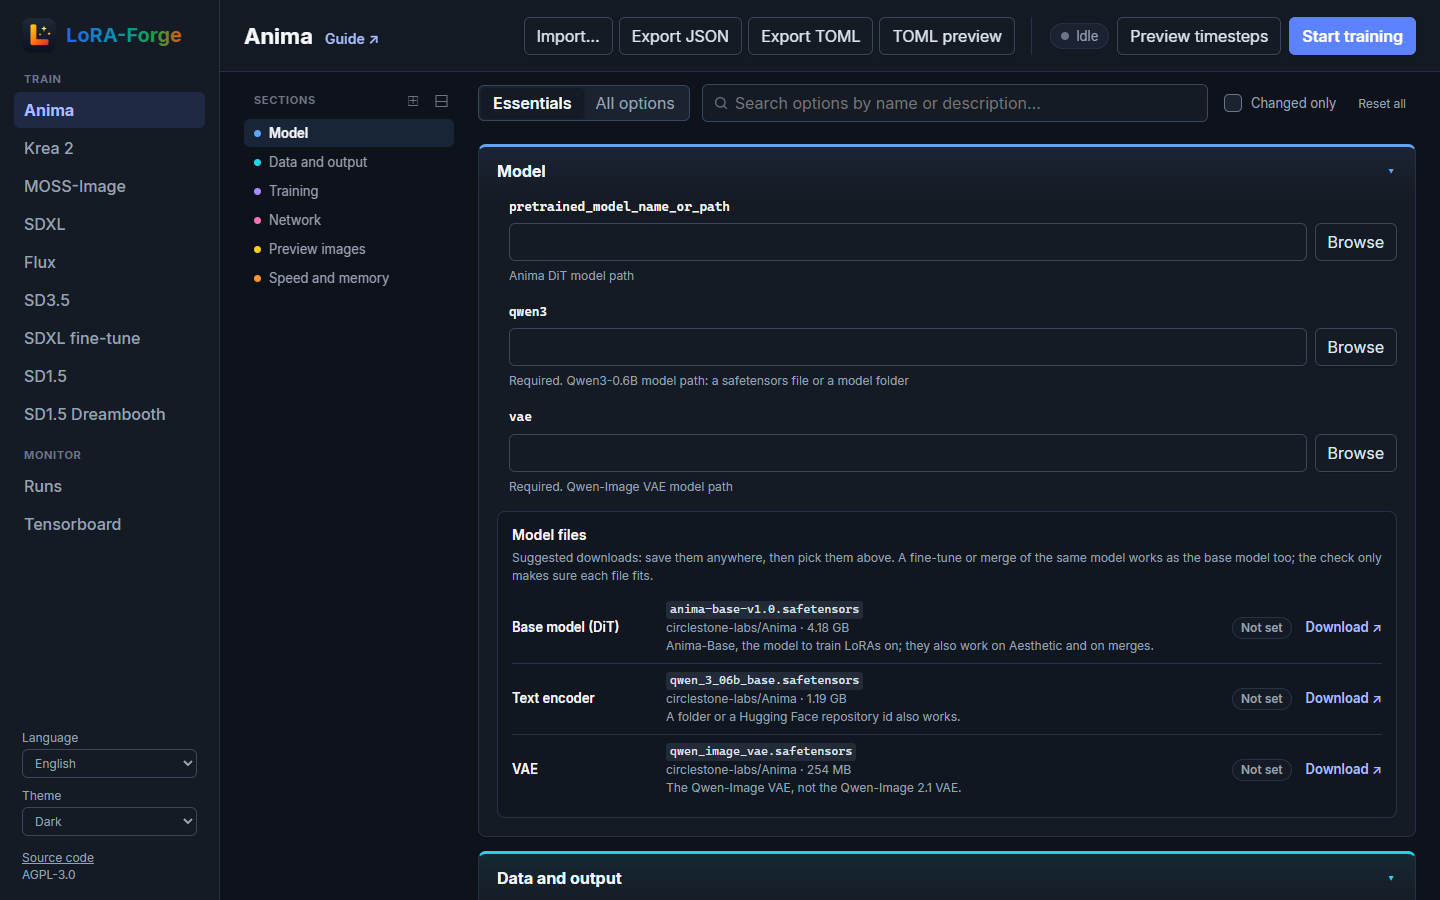
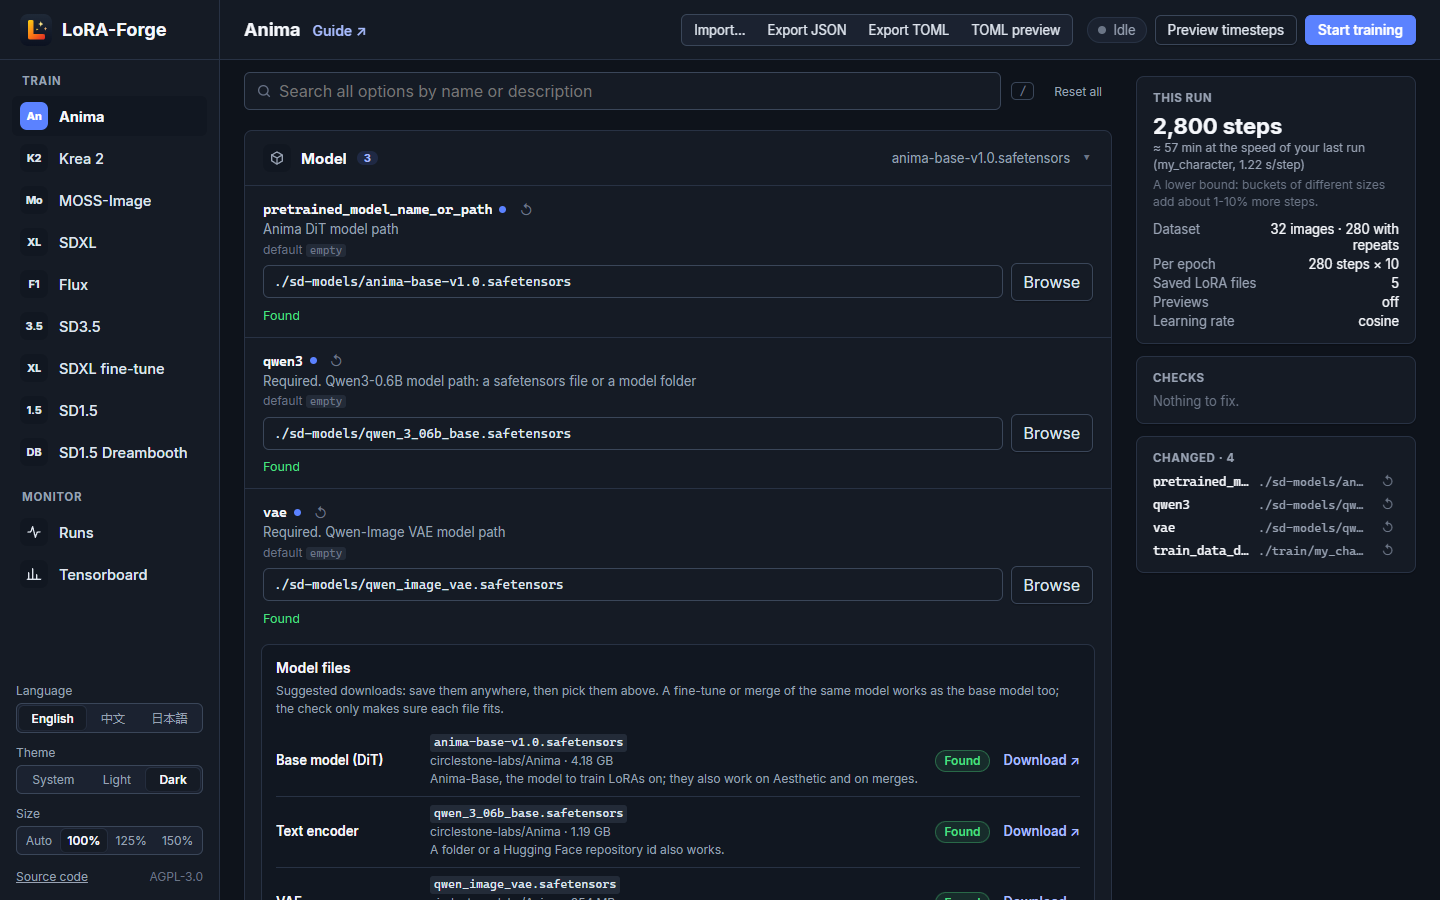
Release 1.5.0
New README screenshots and text for the redesigned trainer pages, and the version bump.

diff --git a/README.md b/README.md
@@ -43,7 +43,7 @@ LoRA Forge is a web UI for training LoRAs. You pick a model, fill in a form in t
 </picture>
 
 - **Models**: Anima, Krea 2, MOSS-Image, SDXL (Illustrious, NoobAI, Pony, ...), FLUX, SD3.5 and SD1.5, plus full fine-tuning for SDXL and SD1.5 (Dreambooth). Each model has its own page with sensible defaults.
-- **Easy forms**: an *Essentials* view with the options most people change, all options one click away, search, and import / export of configs as JSON or TOML. Anima, Krea 2 and MOSS-Image list the files they need, with download links, and check the files you pick.
+- **Easy forms**: the options most people change first and the rest one click away, sub-options that appear when they apply, live hints (steps, warmup, file checks), problems shown before you start, search, and import / export of configs as JSON or TOML. Anima, Krea 2 and MOSS-Image list the files they need, with download links, and check the files you pick.
 - **Runs page**: progress and time left, loss and learning rate charts, sample images, the saved LoRA files and the console output, also for past runs. No TensorBoard needed.
 - **Faster training**: an SDXL LoRA trains about twice as fast as with plain sd-scripts, and Anima, Krea 2 and MOSS-Image are faster too. Most of it is on by default ([details](#speed)).
 - **Krea 2 on 16 GB cards**: int8 base weights and block swap by default ([details](docs/krea2.md)).
@@ -105,11 +105,11 @@ Images directly in the dataset folder are not used; the GUI tells you when no `<
 
 **2. Get the base model.** Download the model you want to train on. Anima, Krea 2 and MOSS-Image also need a text encoder and a VAE: their pages have a **Model files** panel with a download link for each file. For SDXL, FLUX, SD3.5 and SD1.5, use any checkpoint of that model you like.
 
-**3. Fill in the form.** Open the page for your model in the sidebar. In the *Essentials* view, set at least the base model file, the dataset folder and the output name; the other values are reasonable defaults. The step estimate next to the dataset folder shows how many steps the settings give.
+**3. Fill in the form.** Open the page for your model in the sidebar. Set at least the base model file, the dataset folder and the output name; the other values are reasonable defaults, and each section's "+ more" shows the rest. The panel on the right shows how many steps the settings give and what still needs fixing; **Start training** waits for the required files.
 
 <picture>
   <source media="(prefers-color-scheme: dark)" srcset="docs/images/anima-dark.png">
-  <img src="docs/images/anima-light.png" alt="The Anima page in the Essentials view, with the model files panel and its download links">
+  <img src="docs/images/anima-light.png" alt="The Anima page: the model files checked, the run summary with steps and time, and the model files panel with download links">
 </picture>
 
 **4. Start and watch.** Press **Start training**. The status in the header shows the progress; click it to open the run on the **Runs** page, where you see the loss, samples and console output. The LoRA files are saved to the output folder (`output/` by default) and listed on the run. They load in ComfyUI and other UIs as they are.

diff --git a/README-zh.md b/README-zh.md
@@ -43,7 +43,7 @@ LoRA Forge 是一个训练 LoRA 的网页界面。选好模型，在浏览器里
 </picture>
 
 - **模型**：Anima、Krea 2、MOSS-Image、SDXL（Illustrious、NoobAI、Pony 等）、FLUX、SD3.5 和 SD1.5，另有 SDXL 与 SD1.5（Dreambooth）的全量微调。每个模型都有自己的页面和合适的默认值。
-- **简洁的表单**：*常用* 视图只显示大多数人会改的选项，全部选项一键切换，支持搜索，配置可导入/导出为 JSON 或 TOML。Anima、Krea 2 和 MOSS-Image 页面会列出所需的文件及下载链接，并检查你选择的文件。
+- **简洁的表单**：先显示大多数人会改的选项，其余选项一键展开；子选项在适用时才出现；实时提示（步数、预热、文件检查），开始前就显示问题；支持搜索，配置可导入/导出为 JSON 或 TOML。Anima、Krea 2 和 MOSS-Image 页面会列出所需的文件及下载链接，并检查你选择的文件。
 - **运行记录页面**：进度与剩余时间、loss 与学习率曲线、样图、已保存的 LoRA 文件和控制台输出，以往的训练也能查看。不需要 TensorBoard。
 - **更快的训练**：SDXL LoRA 的训练速度约为原版 sd-scripts 的两倍，Anima、Krea 2 和 MOSS-Image 也更快。大部分加速默认开启（[详情](#训练速度)）。
 - **16 GB 显卡也能训练 Krea 2**：默认使用 int8 底模权重和 block 交换（[详情](docs/krea2-zh.md)）。
@@ -105,11 +105,11 @@ train/my_character/          ← 在 GUI 中选择这个文件夹
 
 **2. 准备底模。** 下载要在其上训练的模型。Anima、Krea 2 和 MOSS-Image 还需要文本编码器和 VAE：它们的页面上有 **模型文件** 面板，给出每个文件的下载链接。SDXL、FLUX、SD3.5 和 SD1.5 可以使用该模型的任意 checkpoint。
 
-**3. 填写表单。** 在侧边栏打开对应模型的页面。在 *常用* 视图中至少填写底模文件、数据集文件夹和输出名称，其他值都有合理的默认值。数据集文件夹旁的 **步数预测** 会显示当前设置下的训练步数。
+**3. 填写表单。** 在侧边栏打开对应模型的页面。至少填写底模文件、数据集文件夹和输出名称，其他值都有合理的默认值，每个分组的「+ 另外 N 个参数」可以展开其余选项。右侧面板显示当前设置下的训练步数和需要处理的问题；必需的文件填好后才能 **开始训练**。
 
 <picture>
   <source media="(prefers-color-scheme: dark)" srcset="docs/images/anima-dark.png">
-  <img src="docs/images/anima-light.png" alt="Anima 页面的常用视图，含模型文件面板及其下载链接">
+  <img src="docs/images/anima-light.png" alt="Anima 页面：已检查的模型文件、显示步数与时间的训练概览，以及带下载链接的模型文件面板">
 </picture>
 
 **4. 开始并查看。** 点击 **开始训练**。页头的状态会显示进度，点击它即可在 **运行记录** 页面打开这次训练，查看 loss、样图和控制台输出。LoRA 文件保存在输出文件夹（默认 `output/`），并列在这次运行中，可直接在 ComfyUI 等界面中加载。
